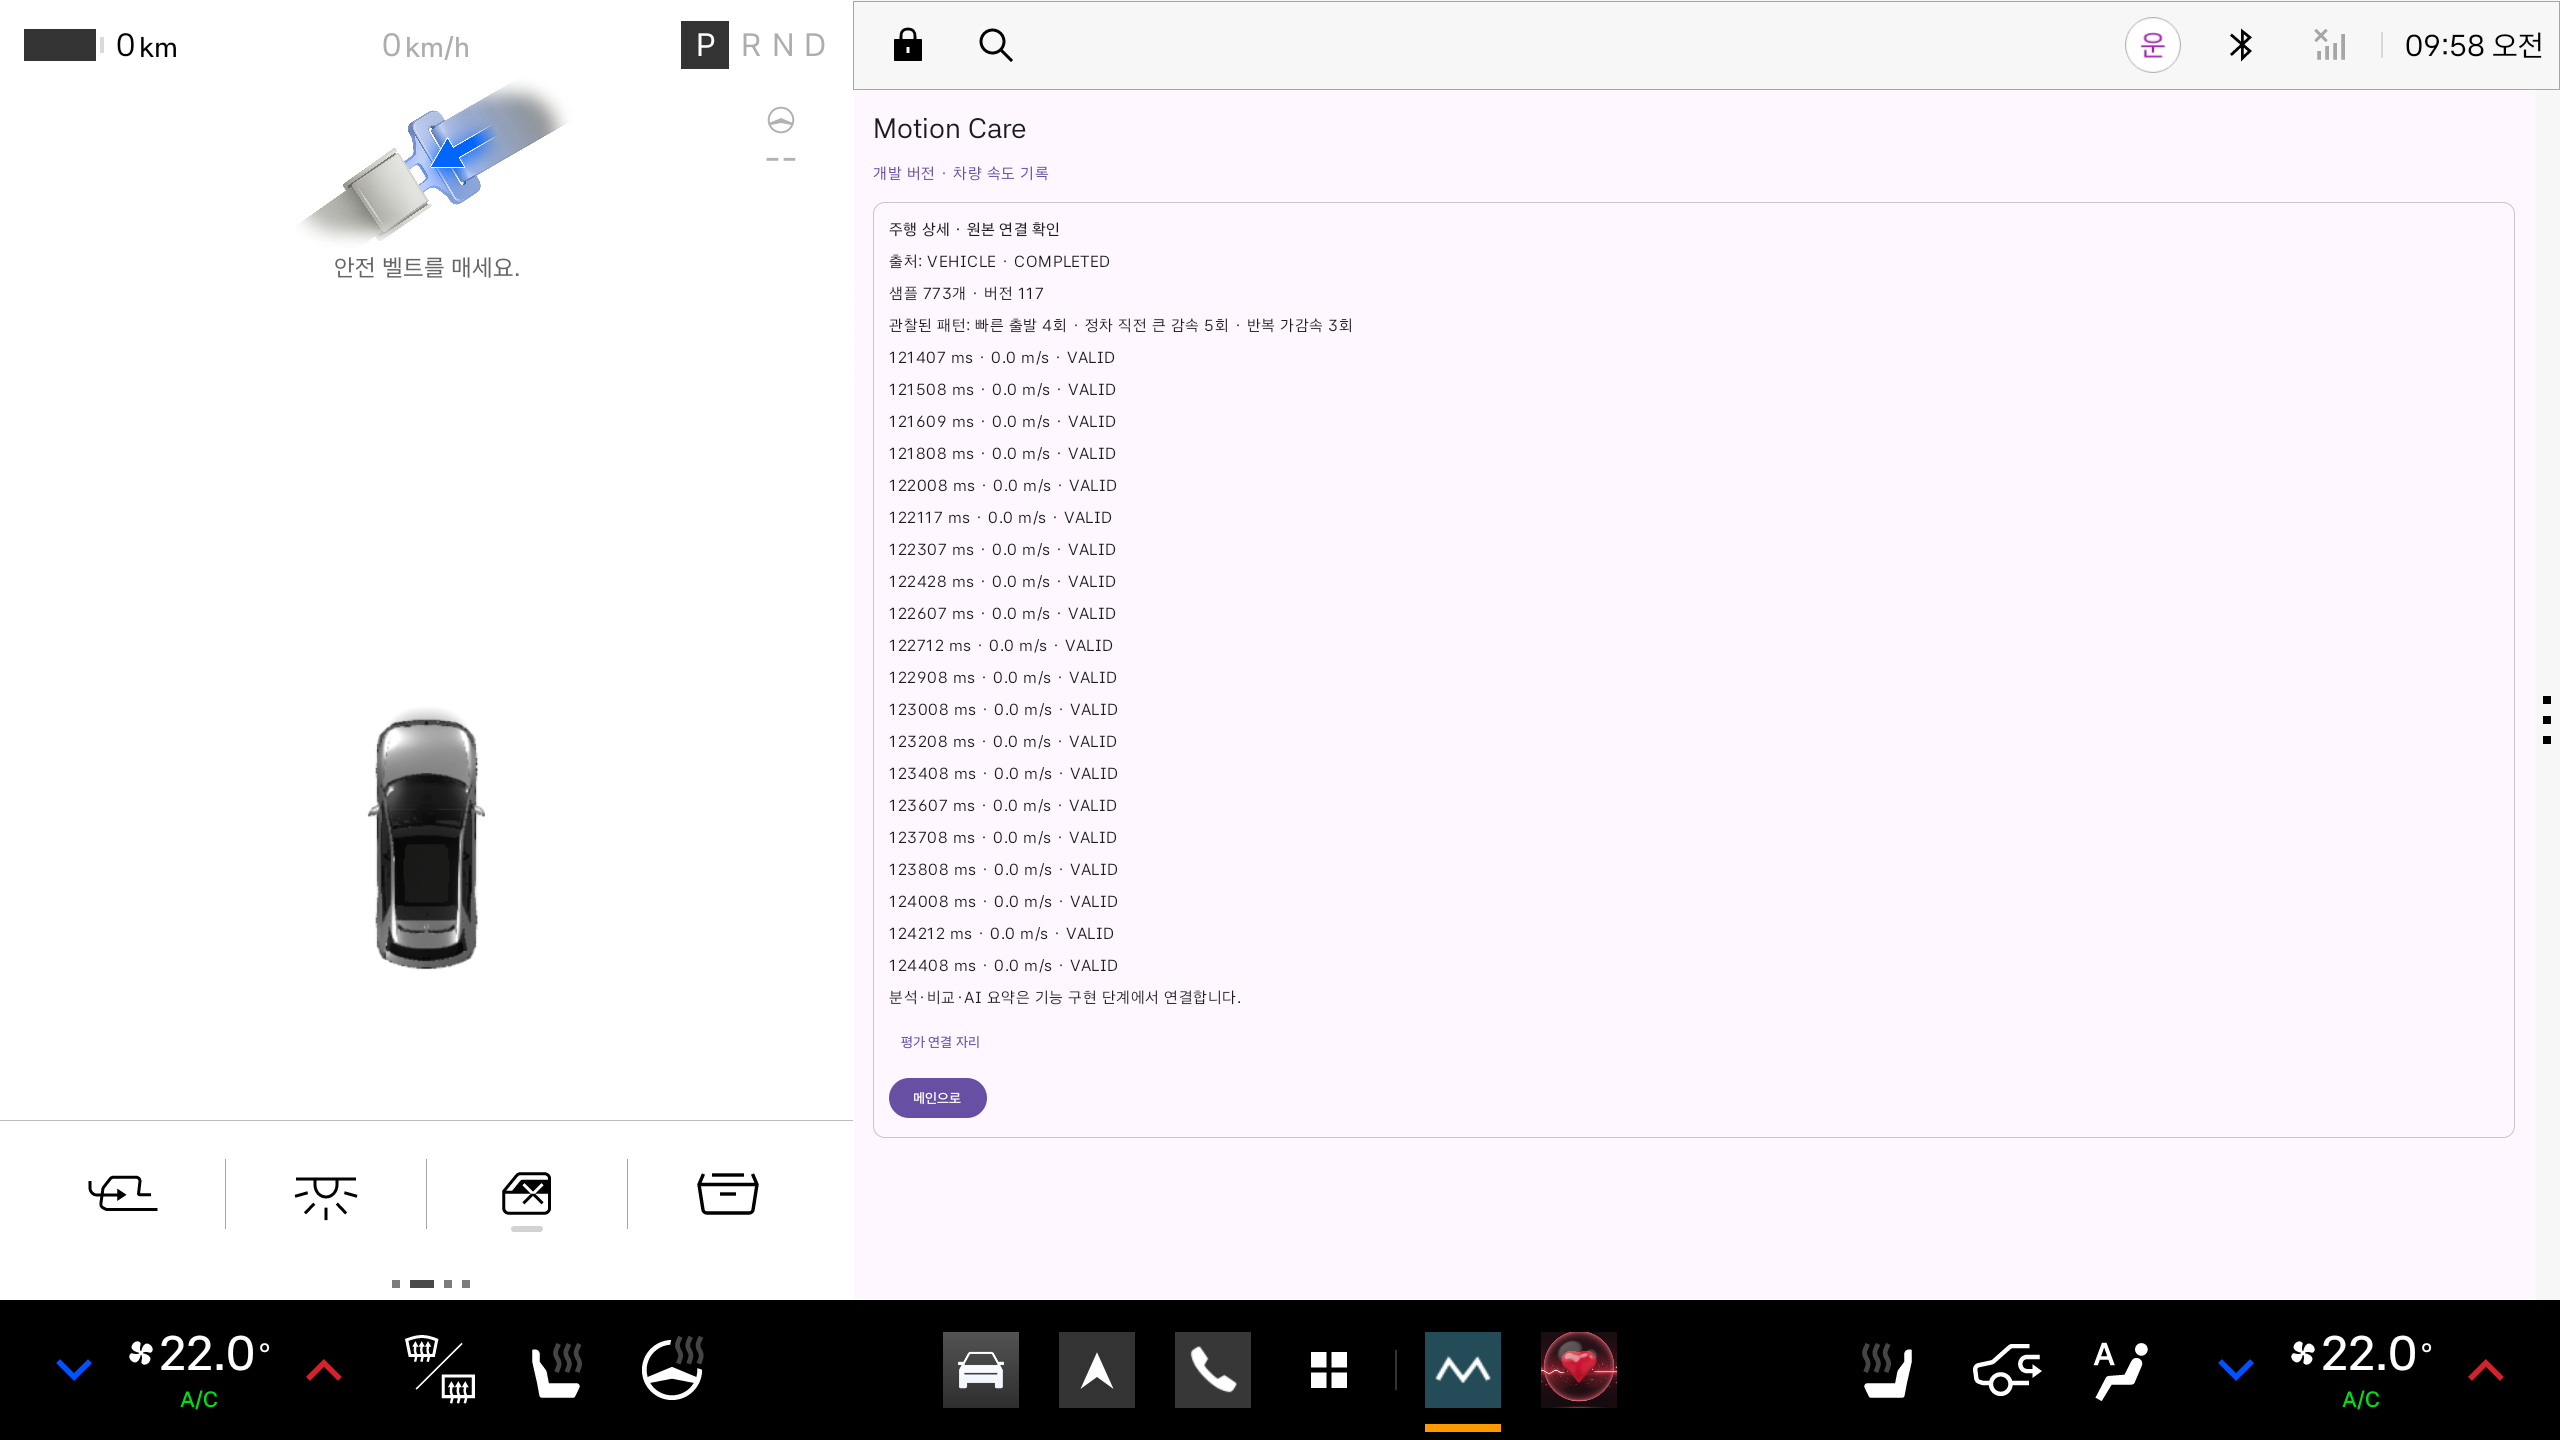
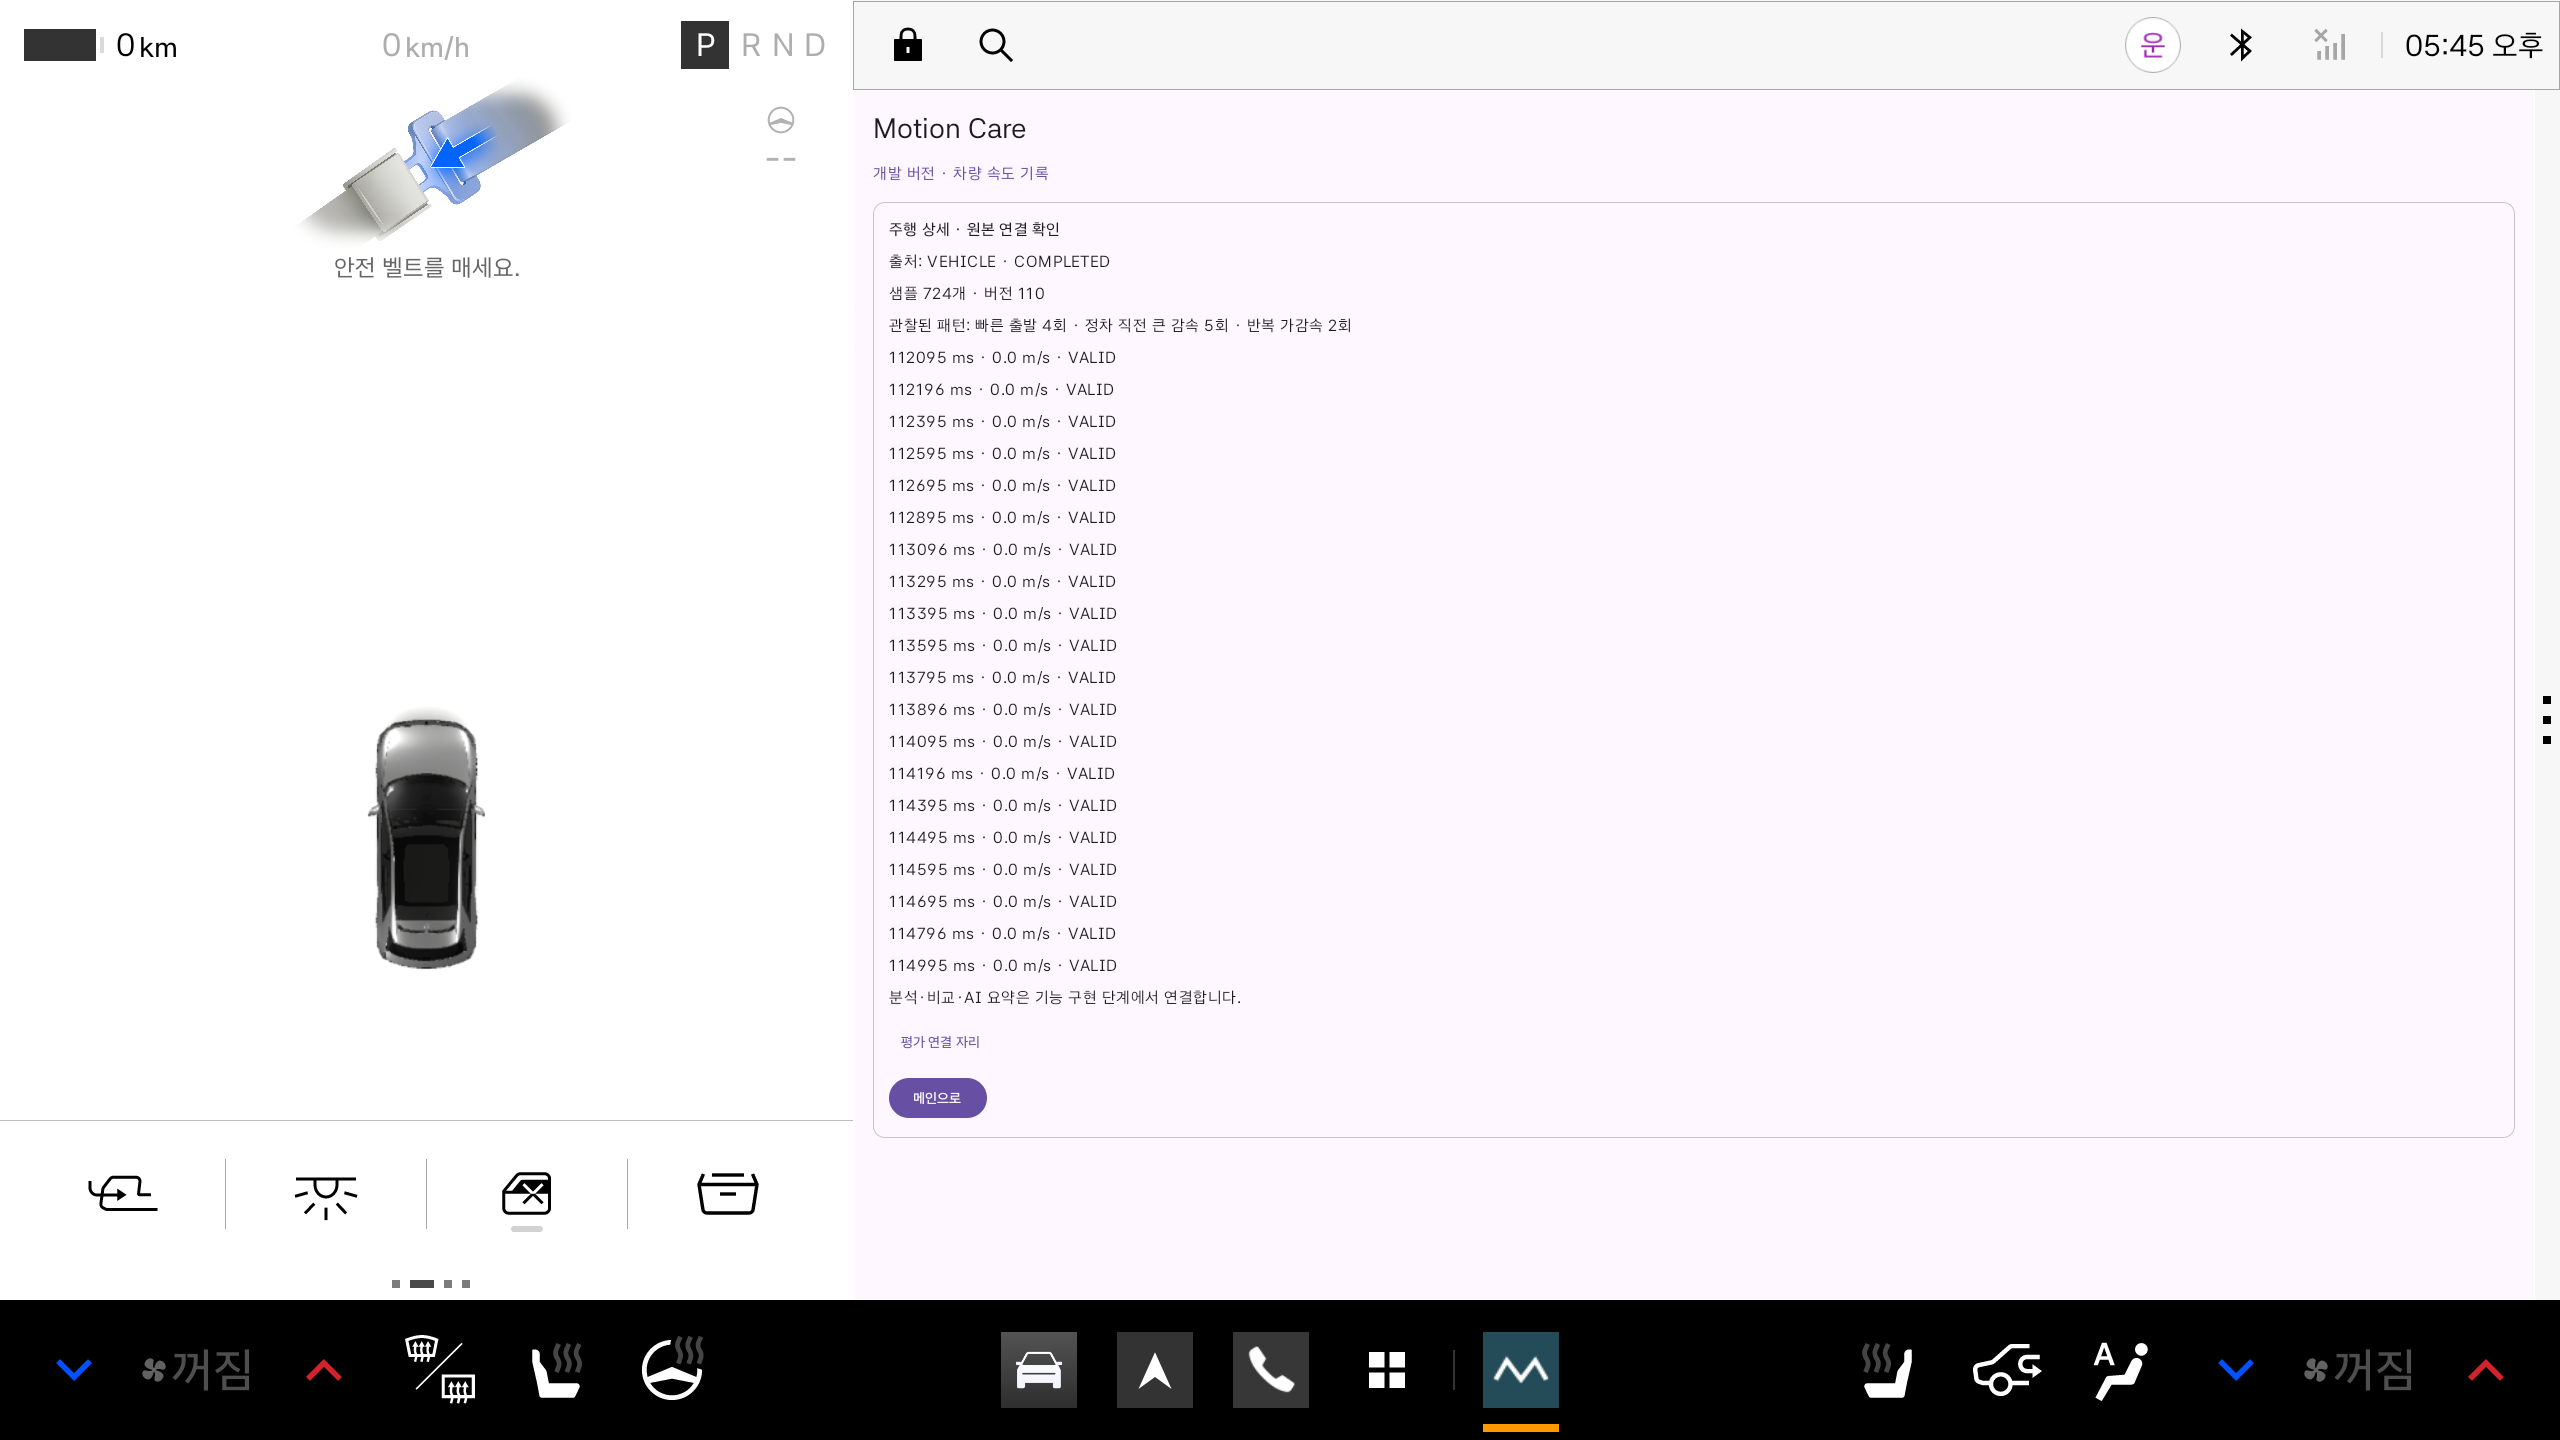
fix: 종단 시험이 다른 세션의 기기를 쓰지 않도록 수정
기기를 명시하지 않으면 실행하지 않고, 콘솔 포트는 빈 포트를 씁니다. 측정값은 프로젝트 에뮬레이터에서 다시 잰 값입니다.

diff --git a/docs/pleos-emulator/tools/recording_e2e.py b/docs/pleos-emulator/tools/recording_e2e.py
@@ -2,6 +2,8 @@
 """End-to-end check of vehicle recording on the Pleos emulator.
 
 Start the emulator and build the debug APK first. Screenshots go to a temporary folder.
+Set ANDROID_SERIAL when more than one device is attached. This script installs an app and drives the
+vehicle signals, so it must never run against an emulator that belongs to other work.
 """
 import os
 import pathlib
@@ -9,6 +11,7 @@ import re
 import sqlite3
 import statistics
 import subprocess
+import sys
 import tempfile
 import threading
 import time
@@ -16,11 +19,27 @@ import urllib.request
 import xml.etree.ElementTree as ET
 
 SDK = pathlib.Path(os.environ.get("ANDROID_HOME", pathlib.Path.home() / "Library/Android/sdk"))
-ADB = [str(SDK / "platform-tools/adb"), "-s", "emulator-5554"]
+ADB_BIN = str(SDK / "platform-tools/adb")
 PKG = "dev.motioncare.scaffold"
 APK = str(pathlib.Path(__file__).resolve().parents[3] / "app/build/outputs/apk/debug/app-debug.apk")
 OUT = pathlib.Path(tempfile.mkdtemp(prefix="recording-e2e-"))
-BASE = "http://127.0.0.1:8088"
+
+
+def choose_serial():
+    serial = os.environ.get("ANDROID_SERIAL")
+    if serial:
+        return serial
+    listing = subprocess.run([ADB_BIN, "devices"], capture_output=True, text=True, timeout=30).stdout
+    devices = [line.split()[0] for line in listing.splitlines()[1:] if line.endswith("device")]
+    if len(devices) != 1:
+        sys.exit(f"Set ANDROID_SERIAL to choose one of the attached devices: {devices}")
+    return devices[0]
+
+
+ADB = [ADB_BIN, "-s", choose_serial()]
+# A free host port keeps this run from taking over another session's forward.
+PORT = subprocess.run(ADB + ["forward", "tcp:0", "tcp:8088"], capture_output=True, text=True, check=True, timeout=30).stdout.strip()
+BASE = f"http://127.0.0.1:{PORT}"
 
 
 def adb(*args, check=False):
@@ -85,7 +104,7 @@ def service_state():
 
 
 def main():
-    subprocess.run(ADB + ["forward", "tcp:8088", "tcp:8088"], capture_output=True)
+    print("device:", ADB[-1], "avd:", adb("emu", "avd", "name").split()[0], "console port:", PORT)
     stop = threading.Event()
     threading.Thread(target=heartbeat, args=(stop,), daemon=True).start()
     time.sleep(2)
@@ -195,6 +214,7 @@ def main():
         print("observation:", row)
     print("screenshots:", OUT)
     stop.set()
+    adb("forward", "--remove", f"tcp:{PORT}")
 
 
 if __name__ == "__main__":

diff --git a/docs/verification.md b/docs/verification.md
@@ -93,7 +93,7 @@ python3 scripts/dev.py verify --clean-home
 | Android UI 테스트 | 2개 통과 |
 | v1 DB 업그레이드 | Robolectric에서 기존 주행을 유지하고 관찰 저장 가능 |
 | Pleos 에뮬레이터 종단 시험 | 관찰 저장과 상세 화면 표시 통과. [결과](pleos-emulator/README.md#패턴-탐지) |
-| 분석 도구와 앱의 판정 | 에뮬레이터 주행의 관찰 12건이 시각·값까지 Python 판정과 일치 |
+| 분석 도구와 앱의 판정 | 에뮬레이터 주행의 관찰 11건이 시각·값까지 Python 판정과 일치 |
 | 공개 주행 데이터 측정 | VED 3,790시간. [결과](detection-thresholds.md#실측) |
 
 실제 차량 신호에서의 탐지 정확도, 소음이 섞인 신호의 기준값, 실기기의 v1 파일 업그레이드는 확인하지 못했습니다.
